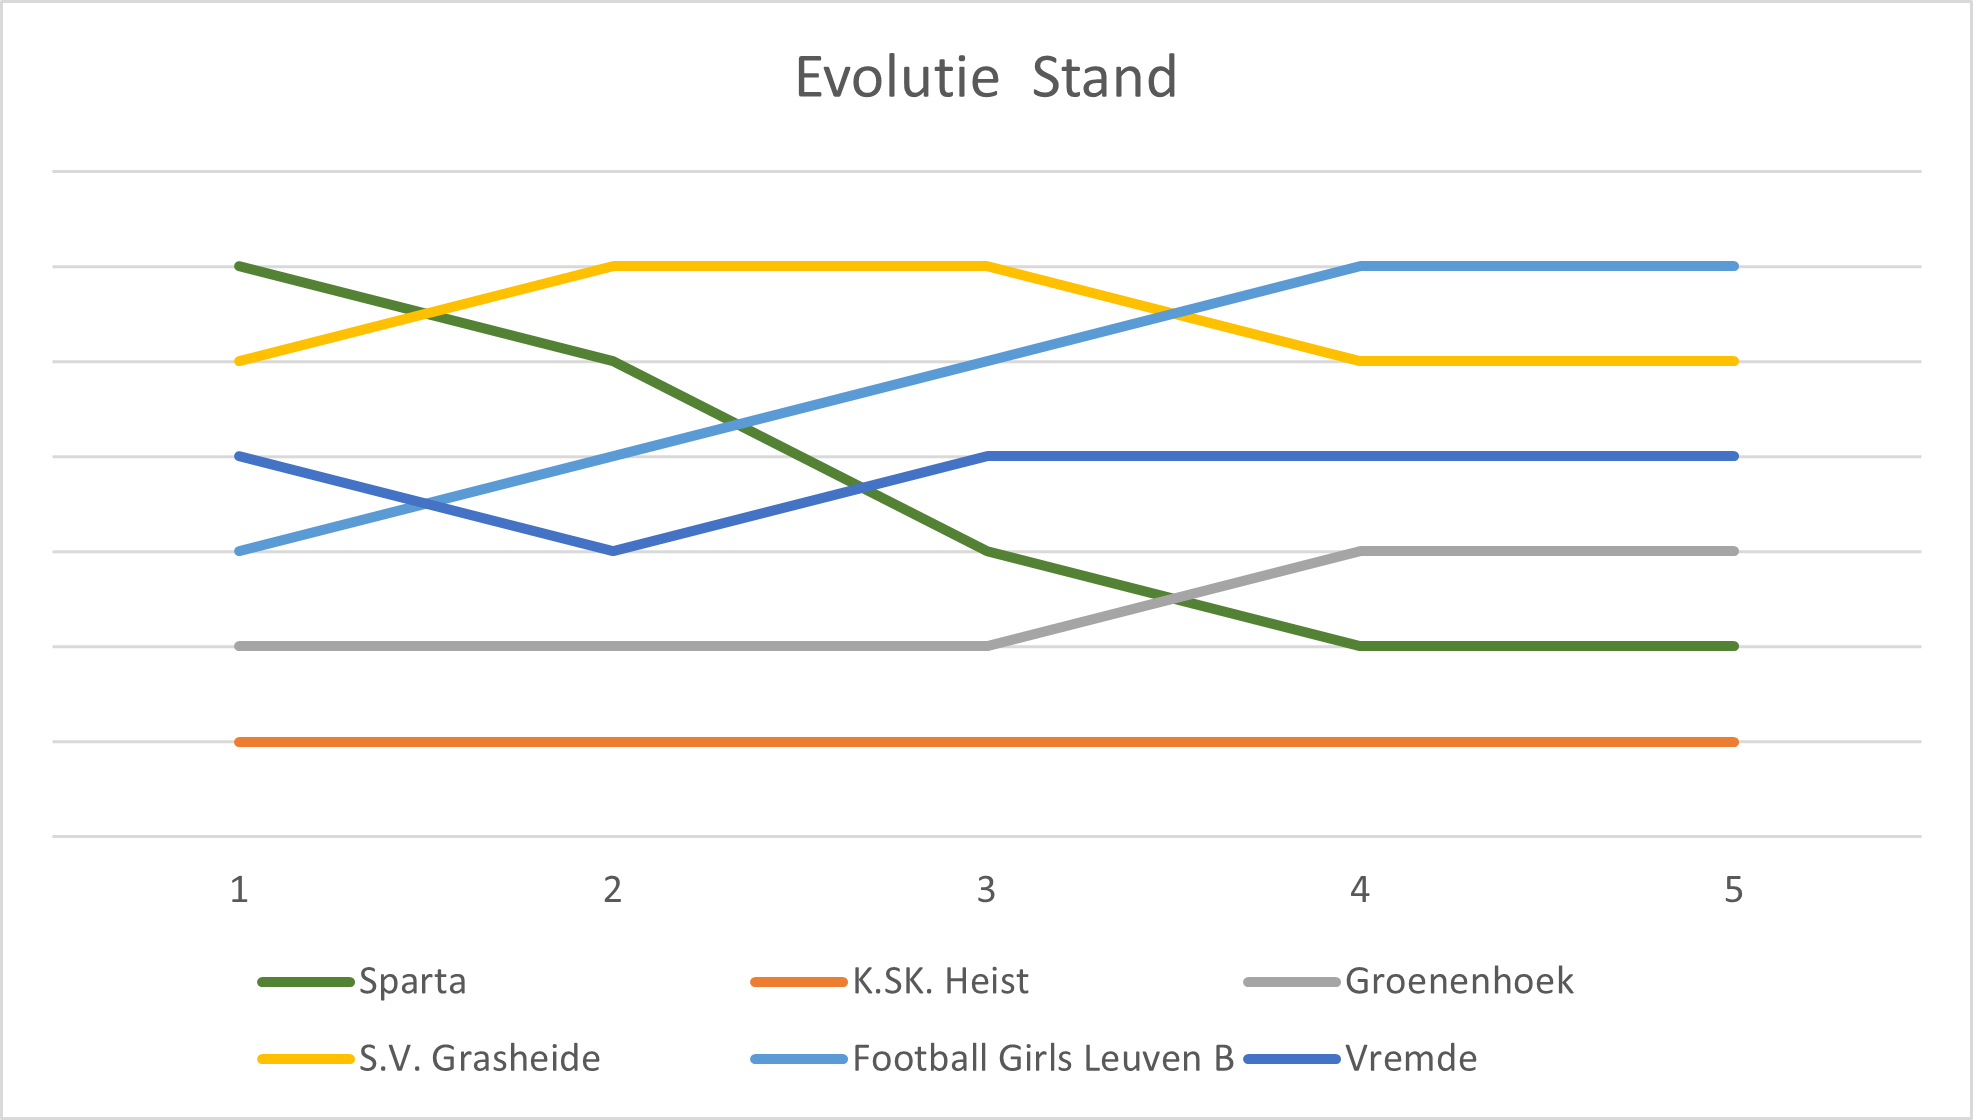
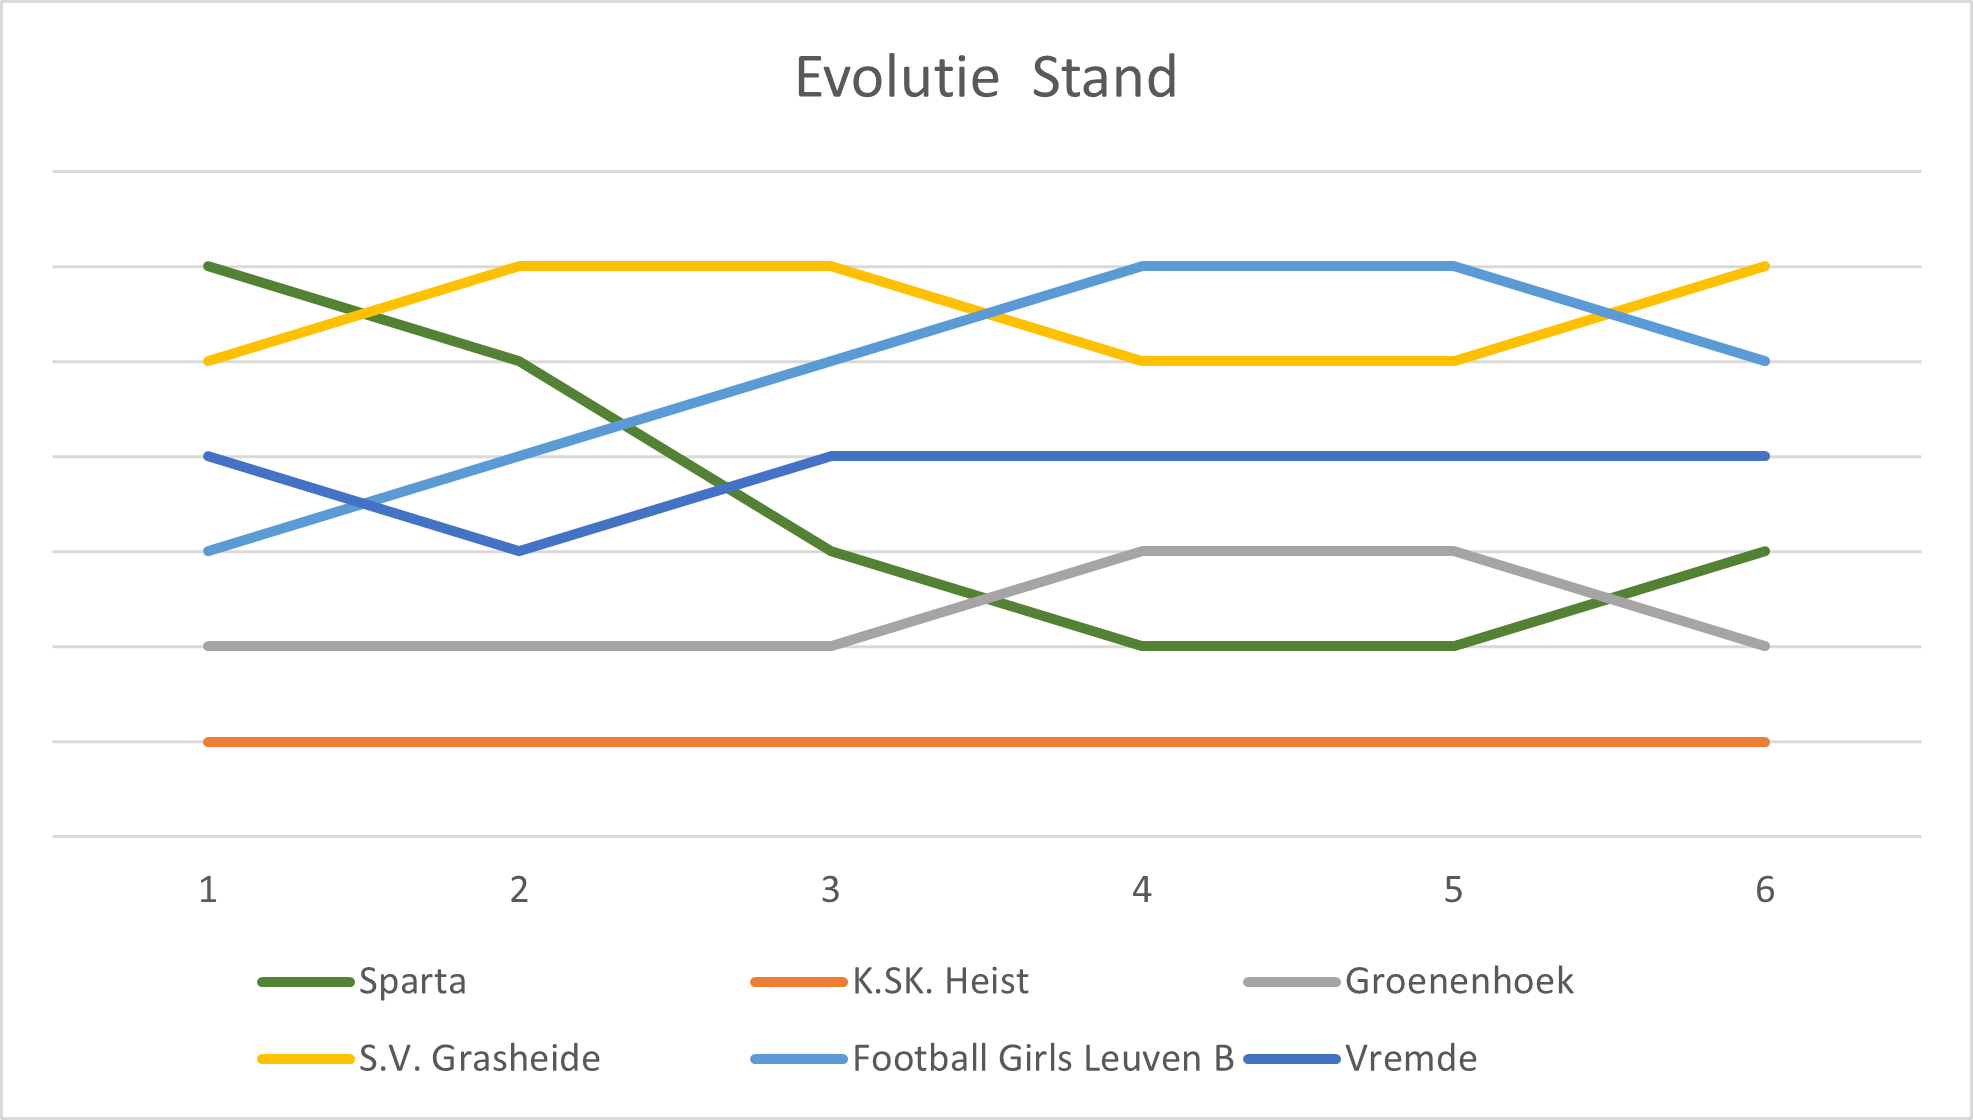
Update team standings for Football Girls Leuven B, S.V. Grasheide, Vremde, Groenenhoek, Sparta, and K.SK. Heist

diff --git a/2425/part1.md b/2425/part1.md
@@ -7,15 +7,17 @@ Op deze pagina vind je allerlei nuttige informatie & afspraken voor 2024/2025 - 
 
 ## Volgende wedstrijd info
 
-<!-- > Volgende wedstrijd is thuis op zondag 22 september tegen Football Girls Leuven om 10.00 (09.00 ter plaatse) -->
+> Volgende wedstrijd is thuis op zondag 13 oktober tegen Groenenhoek om 10.00 (09.00 ter plaatse)
 
-> Volgende wedstrijd is op zondag 5 oktober tegen K.SK. Heist om 12.30 (11.30 ter plaatse)
+<!-- > Volgende wedstrijd is op zondag 5 oktober tegen K.SK. Heist om 12.30 (11.30 ter plaatse)
 > <br>[Adres](https://www.google.com/maps?ll=51.066819,4.733734&z=16&t=m&hl=nl&gl=US&mapclient=embed&cid=14429946998776962015):
 > <br>Lostraat 50
-> <br>2220 Heist-op-den-Berg
+> <br>2220 Heist-op-den-Berg -->
 
 | Selectie | Opmerking |
 | -------- | --------- |
+
+<!--
 | Féliz    |           |
 | Yanaika  |           |
 | Lize     |           |
@@ -27,20 +29,24 @@ Op deze pagina vind je allerlei nuttige informatie & afspraken voor 2024/2025 - 
 | Lore     |           |
 | Margue   |           |
 | Auke     |           |
-| Nina     |           |
+| Nina     |           | 
+--> |
 
-<!-- > Nog niet bekend -->
+> Nog niet bekend
 
 | Gaan niet mee | Opmerking |
 | ------------- | --------- |
+
+<!--
 | Julia         | ⚕        |
 | Esmee         | ⚕        |
 | Tille         | ⚕        |
 | Marie         | ⚕        |
 | Tessa         | ⚕        |
 | Lisa          | ⚕        |
+-->
 
-<!-- > Nog niet bekend -->
+> Nog niet bekend
 
 <!--
 🍏Fruit
@@ -60,7 +66,6 @@ Op deze pagina vind je allerlei nuttige informatie & afspraken voor 2024/2025 - 
 
 | Datum  | Thuis | Uit | Tegenstander                                                                                                                                                                                                                                                                                      | Dag         | Uur   |
 | ------ | :---: | :-: | ------------------------------------------------------------------------------------------------------------------------------------------------------------------------------------------------------------------------------------------------------------------------------------------------- | ----------- | ----- |
-| 5 okt  |       | ✅  | [K.SK. Heist](https://www.google.com/maps?ll=51.066819,4.733734&z=16&t=m&hl=nl&gl=US&mapclient=embed&cid=14429946998776962015)                                                                                                                                                                    | zaterdag    | 12.30 |
 | 13 okt |  ✅   |     | Groenenhoek                                                                                                                                                                                                                                                                                       | zondag      | 10.00 |
 | 20 okt |  ✅   |     | S.V. Grasheide                                                                                                                                                                                                                                                                                    | zondag      | 10.00 |
 | 26 okt |       | ✅  | [Football Girls Leuven B](https://www.google.com/maps/dir/?api=1&destination=Eikestraat+3020+Winksele)                                                                                                                                                                                            | zaterdag    | 10.00 |
@@ -80,7 +85,7 @@ Op deze pagina vind je allerlei nuttige informatie & afspraken voor 2024/2025 - 
 | 7 sep  |       | ✅  | Groenenhoek             | ⚖1-1   |
 | 15 sep |       | ✅  | S.V. Grasheide          | ⬇5-0   |
 | 22 sep |  ✅   |     | Football Girls Leuven B | ⬇11-2  |
-| 5 okt  |       | ✅  | K.SK. Heist             | ❓      |
+| 5 okt  |       | ✅  | K.SK. Heist             | 🏆0-7   |
 | 13 okt |  ✅   |     | Groenenhoek             | ❓      |
 | 20 okt |  ✅   |     | S.V. Grasheide          | ❓      |
 | 26 okt |       | ✅  | Football Girls Leuven B | ❓      |
@@ -102,37 +107,39 @@ Op deze pagina vind je allerlei nuttige informatie & afspraken voor 2024/2025 - 
 
 | Team                    | PTS | M   | W   | V   | G   | +   | -   | +/- |
 | ----------------------- | --- | --- | --- | --- | --- | --- | --- | --- |
-| Football Girls Leuven B | 9   | 5   | 3   | 1   | 1   | 28  | 12  | 16  |
-| S.V. Grasheide          | 9   | 4   | 3   | 0   | 1   | 16  | 3   | 13  |
-| Vremde                  | 9   | 4   | 3   | 1   | 0   | 17  | 9   | 8   |
-| Groenenhoek             | 4   | 5   | 1   | 3   | 1   | 17  | 14  | 3   |
-| Sparta                  | 4   | 4   | 1   | 2   | 1   | 19  | 17  | 2   |
-| K.SK. Heist             | 0   | 4   | 0   | 4   | 0   | 1   | 43  | -42 |
+| S.V. Grasheide          | 15  | 6   | 5   | 0   | 1   | 28  | 6   | 22  |
+| Football Girls Leuven B | 12  | 6   | 4   | 1   | 1   | 31  | 13  | 18  |
+| Vremde                  | 9   | 5   | 3   | 2   | 0   | 18  | 12  | 6   |
+| Sparta                  | 7   | 5   | 2   | 2   | 1   | 26  | 17  | 9   |
+| Groenenhoek             | 4   | 6   | 1   | 4   | 1   | 19  | 17  | 2   |
+| K.SK. Heist             | 0   | 6   | 0   | 6   | 0   | 2   | 59  | -57 |
 
 ### Doelpunten
 
-| Naam    | 1 sep | 7 sep | 15 sep | 22 sep | 5 okt | 13 okt | 20 okt | 26 okt | 3 nov | 10 nov | 16 nov | 24 nov | 1 dec | 5 dec | 14 dec | Totaal |
-| ------- | :---: | :---: | :----: | :----: | :---: | :----: | :----: | :----: | :---: | :----: | :----: | :----: | :---: | :---: | :----: | :----: |
-| Lisa    |   3   |       |        |        |       |        |        |        |       |        |        |        |       |       |        |   3    |
-| Marie   |   3   |       |        |   1    |       |        |        |        |       |        |        |        |       |       |        |   3    |
-| Ella    |   2   |       |        |   1    |       |        |        |        |       |        |        |        |       |       |        |   2    |
-| Esmee   |   2   |       |        |        |       |        |        |        |       |        |        |        |       |       |        |   2    |
-| Gitte   |   2   |       |        |        |       |        |        |        |       |        |        |        |       |       |        |   2    |
-| Féliz   |       |   1   |        |        |       |        |        |        |       |        |        |        |       |       |        |   1    |
-| Lize    |   1   |       |        |        |       |        |        |        |       |        |        |        |       |       |        |   1    |
-| Margue  |   1   |       |        |        |       |        |        |        |       |        |        |        |       |       |        |   1    |
-| Nina    |   1   |       |        |        |       |        |        |        |       |        |        |        |       |       |        |   1    |
-| Tille   |   1   |       |        |        |       |        |        |        |       |        |        |        |       |       |        |   1    |
-| Auke    |       |       |        |        |       |        |        |        |       |        |        |        |       |       |        |   0    |
-| Dee_Dee |       |       |        |        |       |        |        |        |       |        |        |        |       |       |        |   0    |
-| Febe    |       |       |        |        |       |        |        |        |       |        |        |        |       |       |        |   0    |
-| Imke    |       |       |        |        |       |        |        |        |       |        |        |        |       |       |        |   0    |
-| Julia   |       |       |        |        |       |        |        |        |       |        |        |        |       |       |        |   0    |
-| Lore    |       |       |        |        |       |        |        |        |       |        |        |        |       |       |        |   0    |
-| Morane  |       |       |        |        |       |        |        |        |       |        |        |        |       |       |        |   0    |
-| Tessa   |       |       |        |        |       |        |        |        |       |        |        |        |       |       |        |   0    |
-| Yanaika |       |       |        |        |       |        |        |        |       |        |        |        |       |       |        |   0    |
-| Totaal  |  16   |   1   |        |   2    |       |        |        |        |       |        |        |        |       |       |        |   19   |
+| Naam    | 01-Sept | 07-Sept | 15-Sept | 22-Sept | 14-Dec | 05-Oct | 13-Oct | 20-Oct | 26-Oct | 03-Nov | 10-Nov | 16-Nov | 24-Nov | 24-Nov | 01-Dec | 05-Dec | Totaal |
+| ------- | :-----: | :-----: | :-----: | :-----: | :----: | :----: | :----: | :----: | :----: | :----: | :----: | :----: | :----: | :----: | :----: | :----: | :----: |
+| Ella    |    2    |         |         |    1    |        |   2    |        |        |        |        |        |        |        |        |        |        |   5    |
+| Marie   |    3    |         |         |    1    |        |        |        |        |        |        |        |        |        |        |        |        |   4    |
+| Gitte   |    2    |         |         |         |        |   1    |        |        |        |        |        |        |        |        |        |        |   3    |
+| Lisa    |    3    |         |         |         |        |        |        |        |        |        |        |        |        |        |        |        |   3    |
+| Esmee   |    2    |         |         |         |        |        |        |        |        |        |        |        |        |        |        |        |   2    |
+| Féliz   |         |    1    |         |         |        |   1    |        |        |        |        |        |        |        |        |        |        |   2    |
+| Margue  |    1    |         |         |         |        |   1    |        |        |        |        |        |        |        |        |        |        |   2    |
+| Nina    |    1    |         |         |         |        |   1    |        |        |        |        |        |        |        |        |        |        |   2    |
+| Auke    |         |         |         |         |        |   1    |        |        |        |        |        |        |        |        |        |        |   1    |
+| Lize    |    1    |         |         |         |        |        |        |        |        |        |        |        |        |        |        |        |   1    |
+| Tille   |    1    |         |         |         |        |        |        |        |        |        |        |        |        |        |        |        |   1    |
+| Dee_Dee |         |         |         |         |        |        |        |        |        |        |        |        |        |        |        |        |   0    |
+| Febe    |         |         |         |         |        |        |        |        |        |        |        |        |        |        |        |        |   0    |
+| Imke    |         |         |         |         |        |        |        |        |        |        |        |        |        |        |        |        |   0    |
+| Julia   |         |         |         |         |        |        |        |        |        |        |        |        |        |        |        |        |   0    |
+| Lore    |         |         |         |         |        |        |        |        |        |        |        |        |        |        |        |        |   0    |
+| Morane  |         |         |         |         |        |        |        |        |        |        |        |        |        |        |        |        |   0    |
+| Tessa   |         |         |         |         |        |        |        |        |        |        |        |        |        |        |        |        |   0    |
+| Yanaika |         |         |         |         |        |        |        |        |        |        |        |        |        |        |        |        |   0    |
+| Totaal  |   16    |    1    |    0    |    2    |   0    |   7    |   0    |   0    |   0    |   0    |   0    |   0    |   0    |   0    |   0    |   0    |   26   |
+| Tegen   |    0    |    1    |    5    |   11    |   0    |   0    |   0    |   0    |   0    |   0    |   0    |   0    |   0    |   0    |   0    |   0    |   17   |
+|         |         |         |         |         |        |        |        |        |        |        |        |        |        |        |        | Saldo  |   9    |
 
 ### Speel Schema
 
@@ -160,7 +167,7 @@ Op deze pagina vind je allerlei nuttige informatie & afspraken voor 2024/2025 - 
 | Auke    | ✅⚕❌ | ✅❌   | ❌✅   | ✅     | ✅     | -      | -      | -      | -     | -      | -      | -      | -     | -     | -      | -   |
 | Nina    | ✅     | ✅     | ✅     | ✅⚕❌ | ✅     | -      | -      | -      | -     | -      | -      | -      | -     | -     | -      | -   |
 
-### Fruit & Was Schema
+### Fruit
 
 | Naam    | 1 sep | 7 sep | 15 sep | 22 sep | 14 dec | 5 okt | 13 okt | 20 okt | 26 okt | 3 nov | 10 nov | 16 nov | 24 nov | 1 dec | 5 dec | ❓  |
 | ------- | ----- | ----- | ------ | ------ | ------ | ----- | ------ | ------ | ------ | ----- | ------ | ------ | ------ | ----- | ----- | --- |
@@ -169,8 +176,8 @@ Op deze pagina vind je allerlei nuttige informatie & afspraken voor 2024/2025 - 
 | Morane  | -     | -     | ✅     | -      | -      | -     | -      | -      | -      | -     | -      | -      | -      | -     | -     | -   |
 | Féliz   | -     | -     | -      | ✅     | -      | -     | -      | -      | -      | -     | -      | -      | -      | -     | -     | -   |
 | Imke    | -     | -     | -      | -      | ✅     | -     | -      | -      | -      | -     | -      | -      | -      | -     | -     | -   |
+| Dee Dee | -     | -     | -      | -      | -      | ✅    | -      | -      | -      | -     | -      | -      | -      | -     | -     | -   |
 | Auke    | -     | -     | -      | -      | -      | -     | -      | -      | -      | -     | -      | -      | -      | -     | -     | -   |
-| Dee Dee | -     | -     | -      | -      | -      | -     | -      | -      | -      | -     | -      | -      | -      | -     | -     | -   |
 | Ella    | -     | -     | -      | -      | -      | -     | -      | -      | -      | -     | -      | -      | -      | -     | -     | -   |
 | Esmee   | -     | -     | -      | -      | -      | -     | -      | -      | -      | -     | -      | -      | -      | -     | -     | -   |
 | Febe    | -     | -     | -      | -      | -      | -     | -      | -      | -      | -     | -      | -      | -      | -     | -     | -   |
